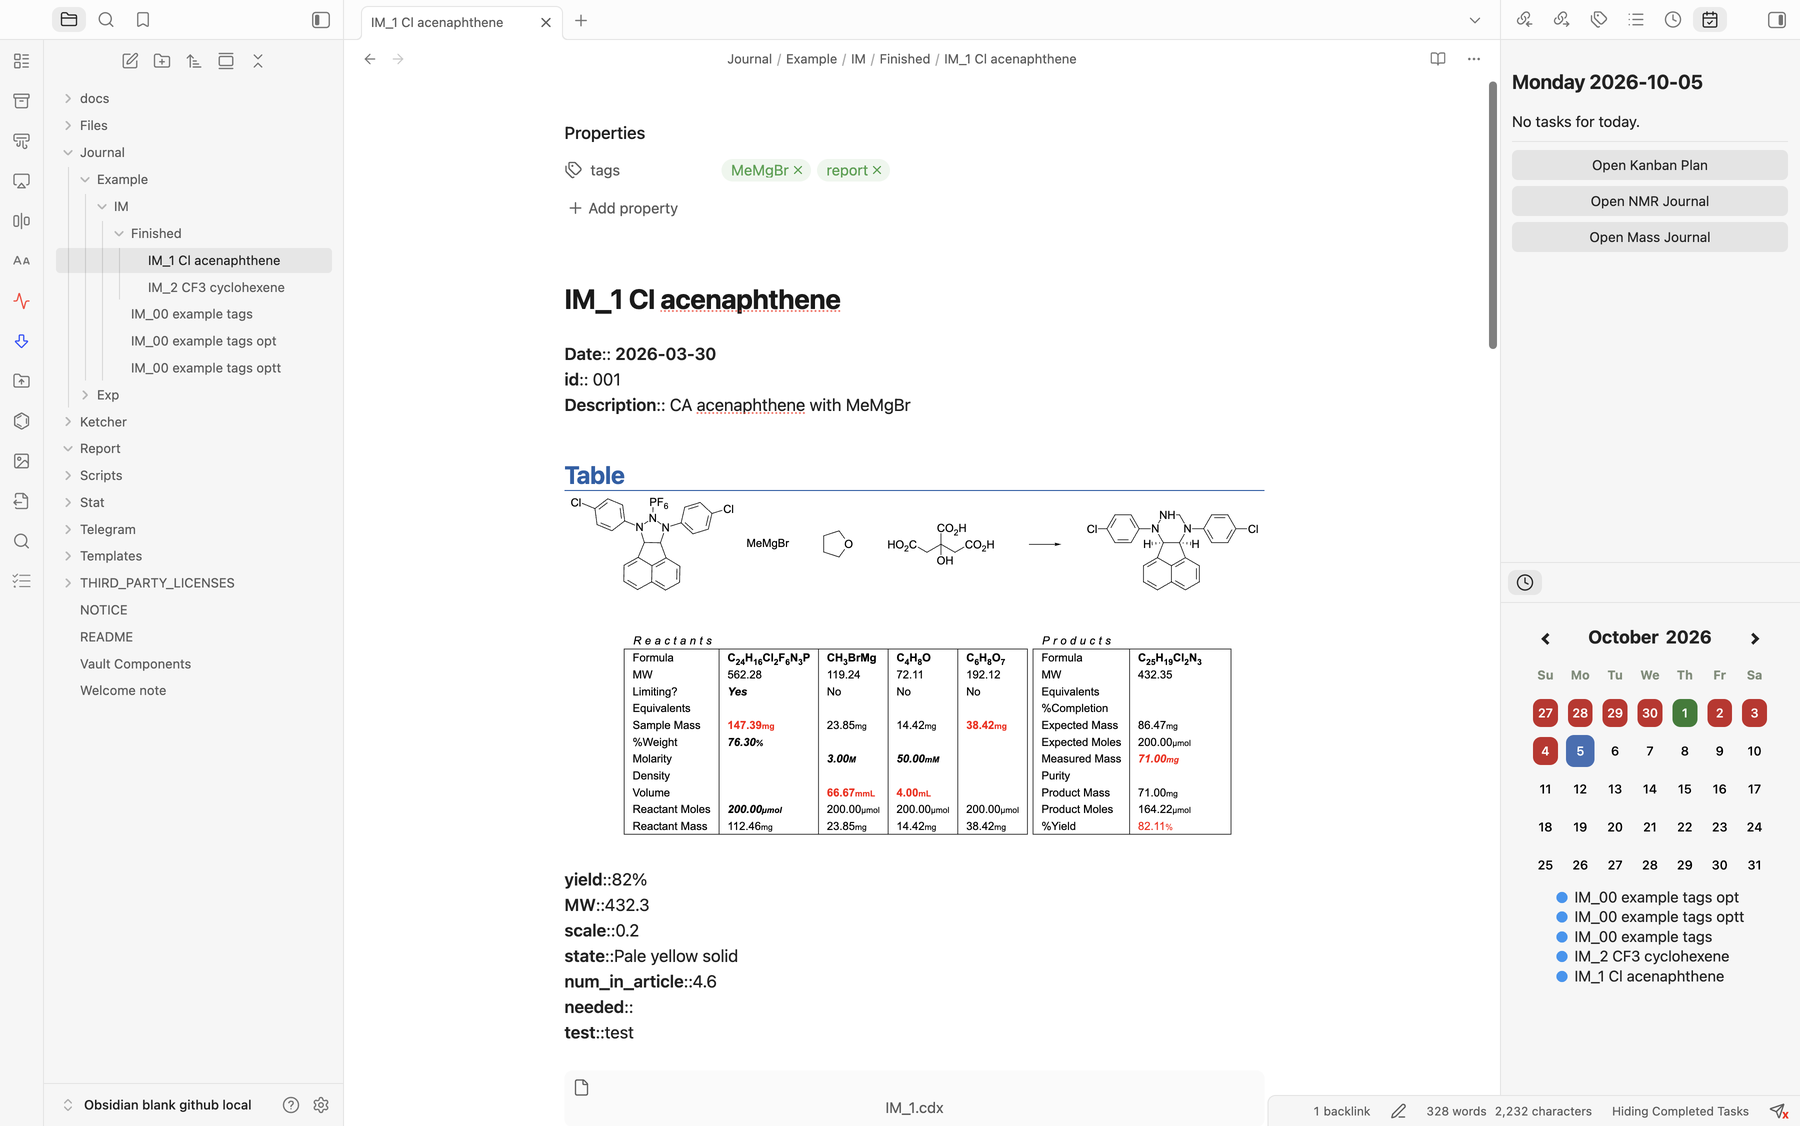
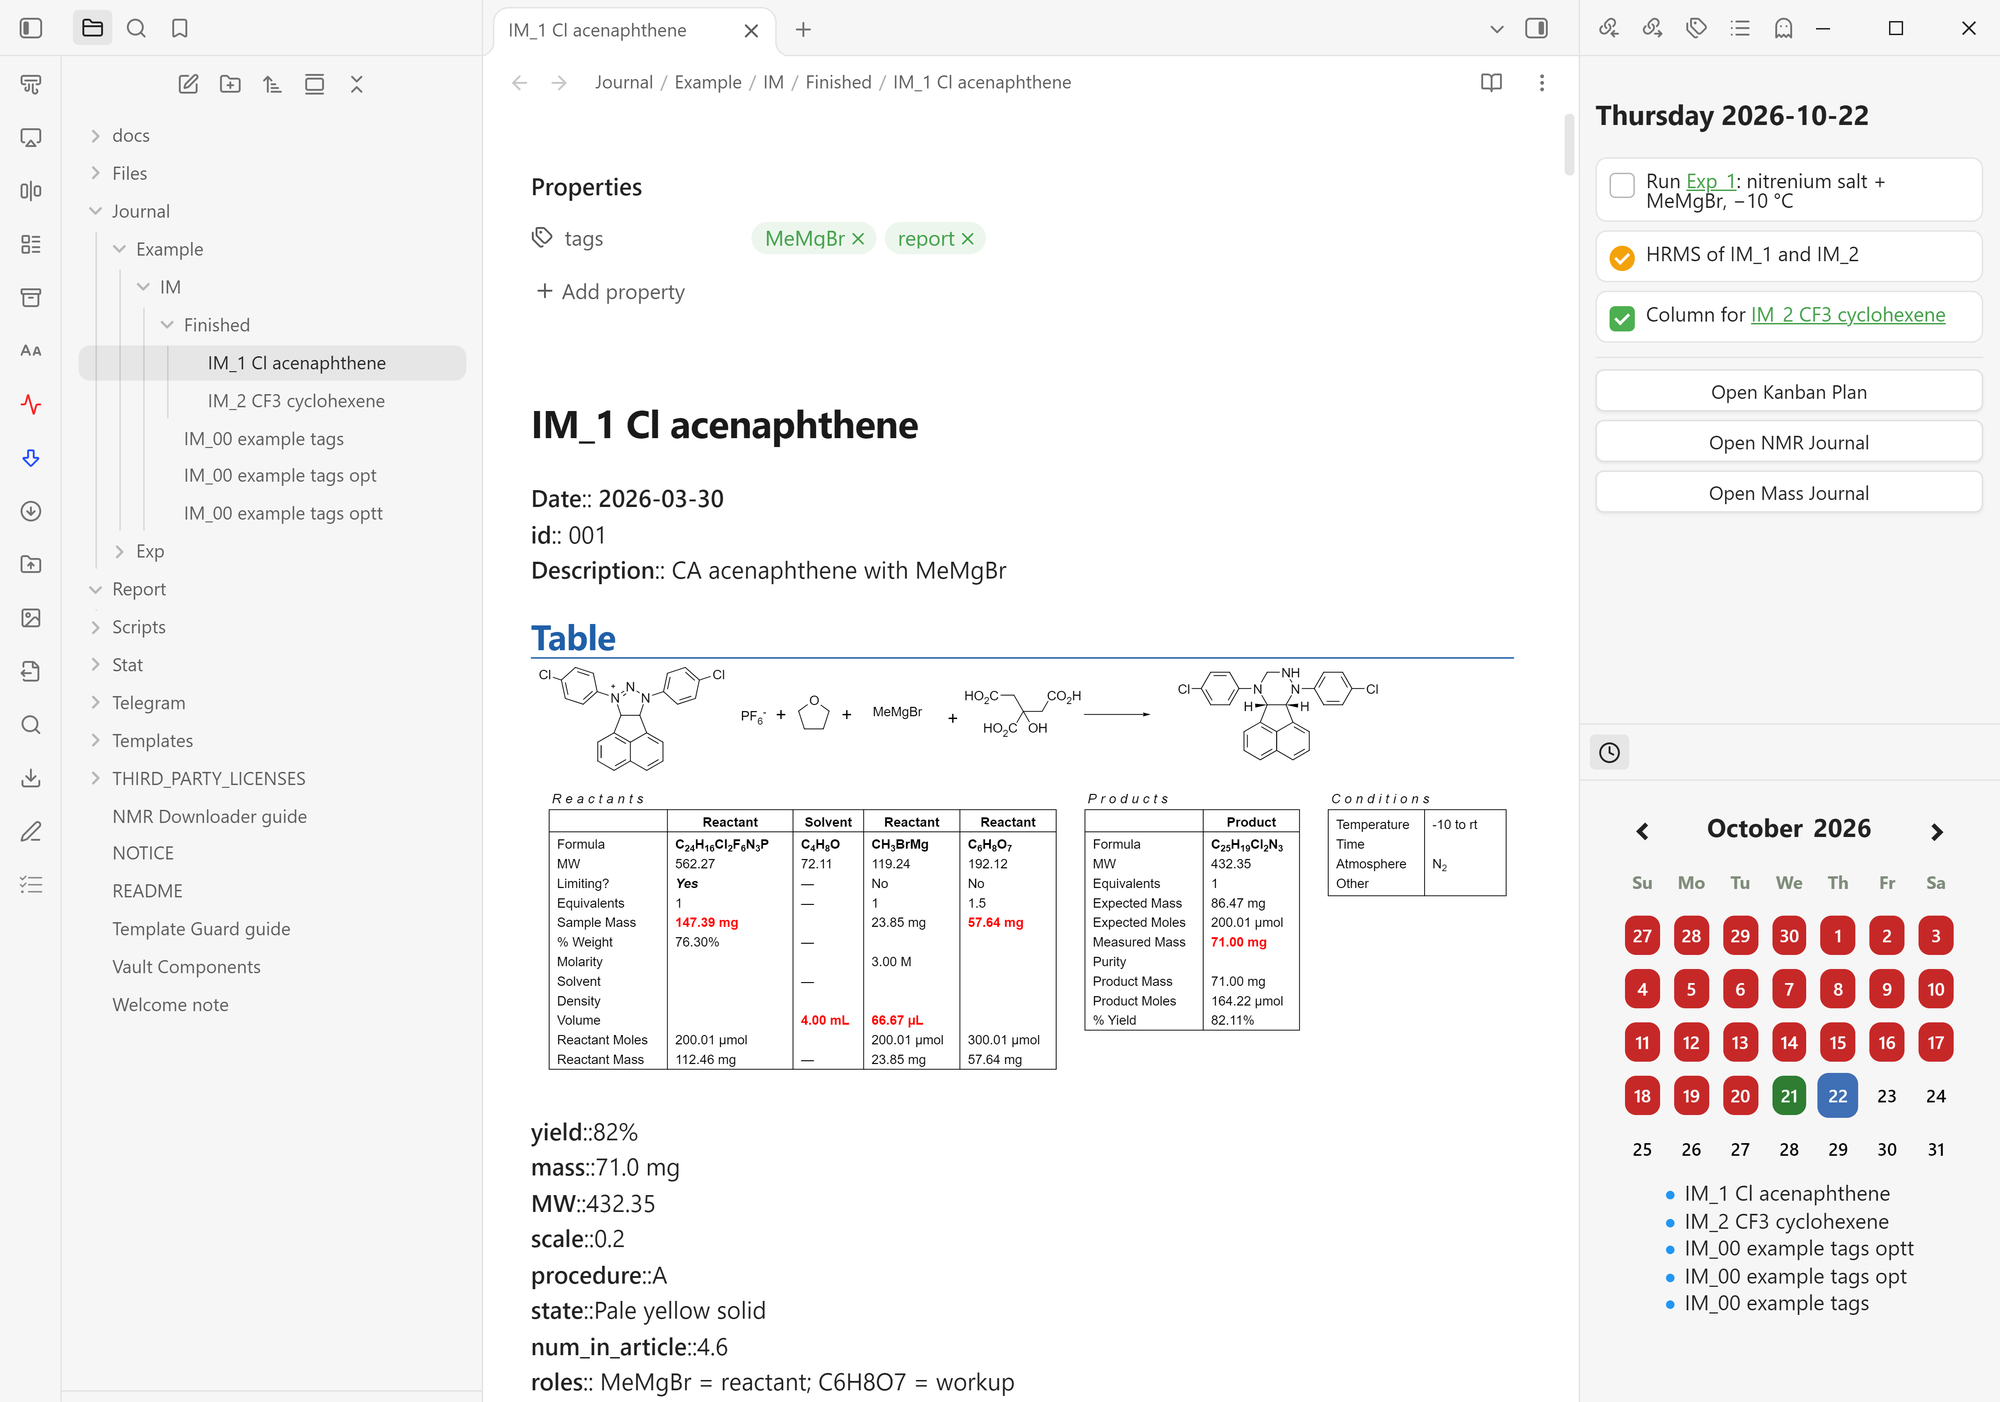
README and Welcome note: figures from the article
docs/images/reaction-note.png = Figure 2 (IM_1 in Obsidian, 2000 px wide),
si-report.png = Figure 3 (characterization paragraph of 4.6, 1600 px),
new plugins-overview.png = Figure 1 (inputs and outputs of six plugins).
The old pictures showed the vault before Reactio Draw (Ketcher folder,
ChemDraw IM_1.cdx) and an old SI draft (86 mg). The Welcome note embeds the
same three files (overview at the top, IM_1 in Tips and Tricks, the SI
paragraph after step 7). Metadata stripped.

Claude-Session: https://claude.ai/code/session_01R4r3JhpK9UffWJNn8obZXD

diff --git a/Welcome note.md b/Welcome note.md
@@ -17,6 +17,12 @@
 
 For free file synchronization, you can use OneDrive or another cloud service.
 
+## How the Notebook Works
+
+Each reaction is one note. Files from your drawing program, the NMR service and your phone go into it, and the plugins made for this notebook (blue) turn what is in the notes into schemes, summary tables, search results and a draft of the Supporting Information. Everything stays in this folder on your computer.
+
+![[plugins-overview.png|560]]
+
 ## Obsidian Interface Overview
 
 Obsidian consists of three main sections:
@@ -96,7 +102,9 @@ To switch between Reading Mode and the current editing mode, press **Ctrl + E**.
 ## Tips and Tricks
 
 - Each **reaction** corresponds to a separate note with a unique ID and a code associated with a particular project. All reaction notes are stored in the **Journal** folder.
-- Examples of completed reaction notes can be found in the Journal folder: [[IM_1 Cl acenaphthene]] and [[IM_2 CF3 cyclohexene]].
+- Examples of completed reaction notes can be found in the Journal folder: [[IM_1 Cl acenaphthene]] and [[IM_2 CF3 cyclohexene]]. This is how [[IM_1 Cl acenaphthene]] looks: the scheme and reagent table under **Table**, the fields below it, and today's tasks and the calendar on the right.
+
+![[reaction-note.png]]
 - Use the QuickAdd hotkey (Exp_) or the QuickAdd button ![[Welcome-note-2.png]] in the left panel to create a new note (see [[#Getting Started]]). The new note is named right away by its code and number (**Exp_5**). You can add a short name after the code in the title heading (`# Exp_5 Suzuki`); the file name follows it automatically. If a note is ever left as **Exp_temp** (for example, when the renaming failed), editing its title fixes the name.
 - The template parts of a reaction note (headings, field labels such as `**yield**::`, the note number `**id1**:: 005` with its value, table borders and the first word of a table header such as `TLC`, buttons, the page break at the end of the note) are protected by **Template Guard** (it reads the rules from the project template, no setup is needed): they cannot be deleted or changed by typing, and nothing can be appended to a heading. Values, table cells and the procedure are edited as usual; in the title `# Exp_5 Suzuki` only the code is fixed. To change the structure of one note on purpose, click **🔒 Template** in the status bar (or assign a hotkey to *Template Guard: Lock / unlock the template in this note* in **Settings → Hotkeys**). If a note misses a template part when it is opened, Template Guard lists it and offers **Restore**. See [[Template Guard guide]].
 - To add a field to all notes of a project, add it to the project template (`Templates/Exp_.md`) and save: Template Guard offers to add it to the existing notes, including the finished ones. A field deleted from the template is no longer protected or restored; old notes keep it.
@@ -278,6 +286,10 @@ To use it:
 7. Review or edit the compound-description template in the window that opens, then click **Generate**. The DOCX file is saved in the selected output folder and opened in your system's default application.
 
    ![[Welcome-note-11.png]]
+
+   The paragraph for [[IM_1 Cl acenaphthene]] in the draft. The procedure sentence and the numbers of the starting materials (1.X, 2.Y) come from the template: check them against the recorded reaction and complete them.
+
+   ![[si-report.png|520]]
 
 If you have several compound series, you can create a separate Dataview table for each series, generate the reports using different description templates, and combine the resulting Word documents manually.
 

diff --git a/README.md b/README.md
@@ -21,6 +21,10 @@ A chemistry electronic laboratory notebook (ELN) based on Obsidian and distribut
 
 The project combines configured open-source community plugins, purpose-built plugins developed for this workflow, reusable templates, and helper scripts that simplify routine laboratory-journal work. It can be adopted as a complete ELN or used modularly: laboratories may reuse individual plugins, templates, scripts, or parts of the workflow in an existing Obsidian vault. The workflow connects reaction records, analytical data, planning, chemical-structure searching, reagent databases, and external chemistry software while keeping the research files under the user's control.
 
+<img src="docs/images/plugins-overview.png" alt="Inputs, plugins and outputs of the notebook" width="640">
+
+*Inputs and outputs of six plugins of the vault; plugins written for this notebook are highlighted.*
+
 ## Screenshots
 
 **Reaction note.** A reaction note in Obsidian with tags, the reaction scheme and reagent table, and inline fields used by Dataview tables. The vault structure is on the left; the daily Kanban tasks and the note-activity calendar are on the right.
@@ -31,7 +35,7 @@ The project combines configured open-source community plugins, purpose-built plu
 
 <img src="docs/images/structure-search.png" alt="Reaction substructure search results" width="720">
 
-**Supporting Information draft.** Chemistry Word Report assembles compound names, structures, yields, and analytical data from the selected notes into an editable Word document.
+**Supporting Information draft.** Chemistry Word Report assembles compound names, structures, yields, and analytical data from the selected notes into an editable Word document. The procedure sentence and the starting-material numbers (1.X, 2.Y) are template text, which the chemist checks and completes.
 
 <img src="docs/images/si-report.png" alt="Generated Supporting Information draft" width="720">
 
